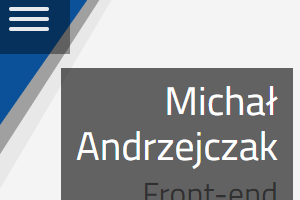
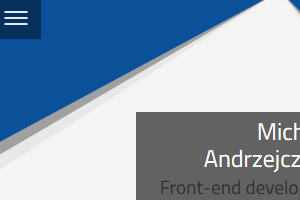
Added next project. Update of portfolio image.

diff --git a/index.html b/index.html
@@ -71,7 +71,7 @@
 				<div class="card">
 					<a href="https://michalandrzejczak.github.io/project-psdtohtml1/" target="_blank">
 						<div class="img-wrapper">
-							<img src="img/card-psdtohtml.png" alt="Card image">
+							<img src="img/card-psdtohtml1.png" alt="Card image">
 						</div>
 						<span class="card-hover">Live</span>
 					</a>
@@ -94,6 +94,20 @@
 					<div class="card-links">
 						<a href="https://michalandrzejczak.github.io/project-todos/" target="_blank"><i class="far fa-window-restore"></i>Live</a>
 						<a href="https://github.com/michalandrzejczak/project-todos" target="_blank"><i class="fab fa-github"></i>GitHub</a>
+					</div>
+				</div> <!--.card-->
+				<div class="card">
+					<a href="https://michalandrzejczak.github.io/project-psdtohtml2/" target="_blank">
+						<div class="img-wrapper">
+							<img src="img/card-psdtohtml2.png" alt="Card image">
+						</div>
+						<span class="card-hover">Live</span>
+					</a>
+					<h2 class="card-title">PSD to html 2</h2>
+					<p class="card-text">Strona stworzona z szablonu PSD, z wykorzsytaniem Bootstrapa, SASS, jQuery i reszty frontendowego stacka. RWD available.</p>
+					<div class="card-links">
+						<a href="https://michalandrzejczak.github.io/project-psdtohtml2/" target="_blank"><i class="far fa-window-restore"></i>Live</a>
+						<a href="https://github.com/michalandrzejczak/project-psdtohtml2" target="_blank"><i class="fab fa-github"></i>GitHub</a>
 					</div>
 				</div> <!--.card-->
 			</div> <!--.container-->
